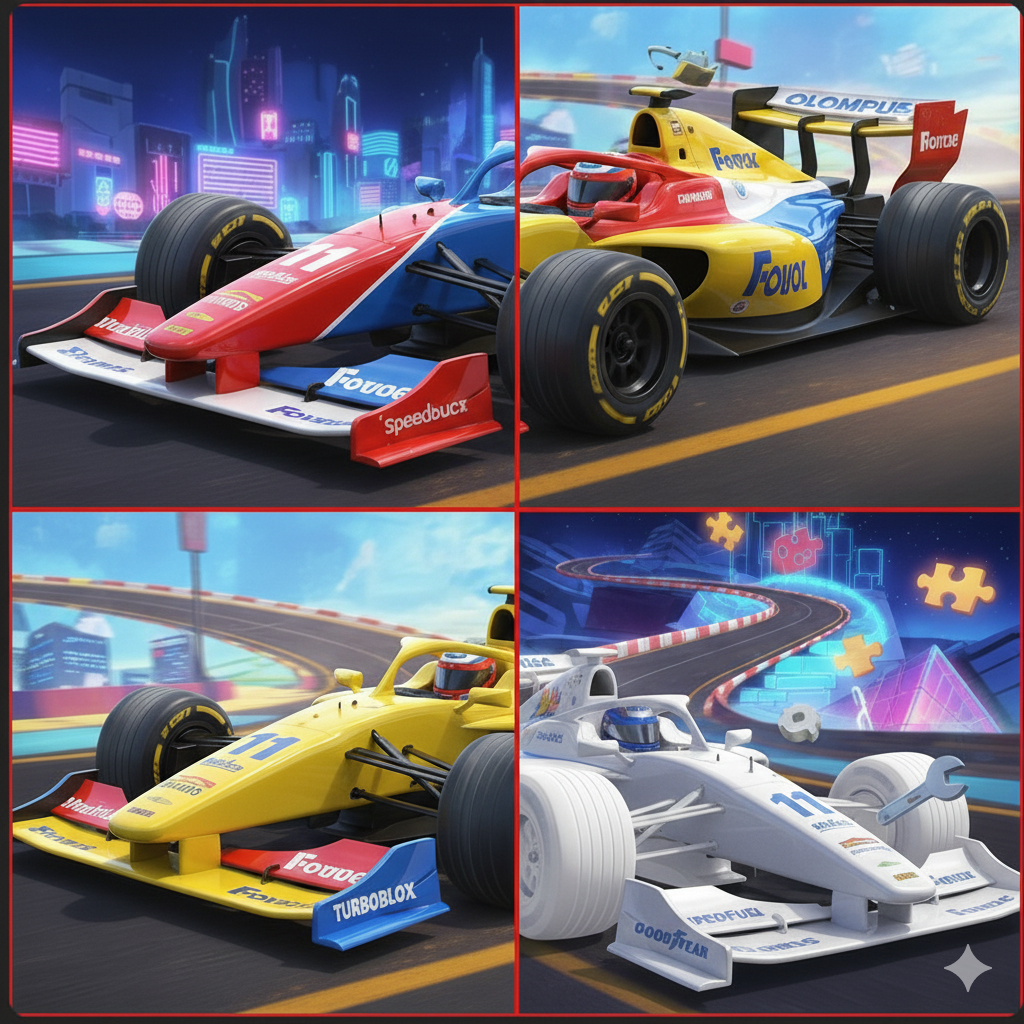
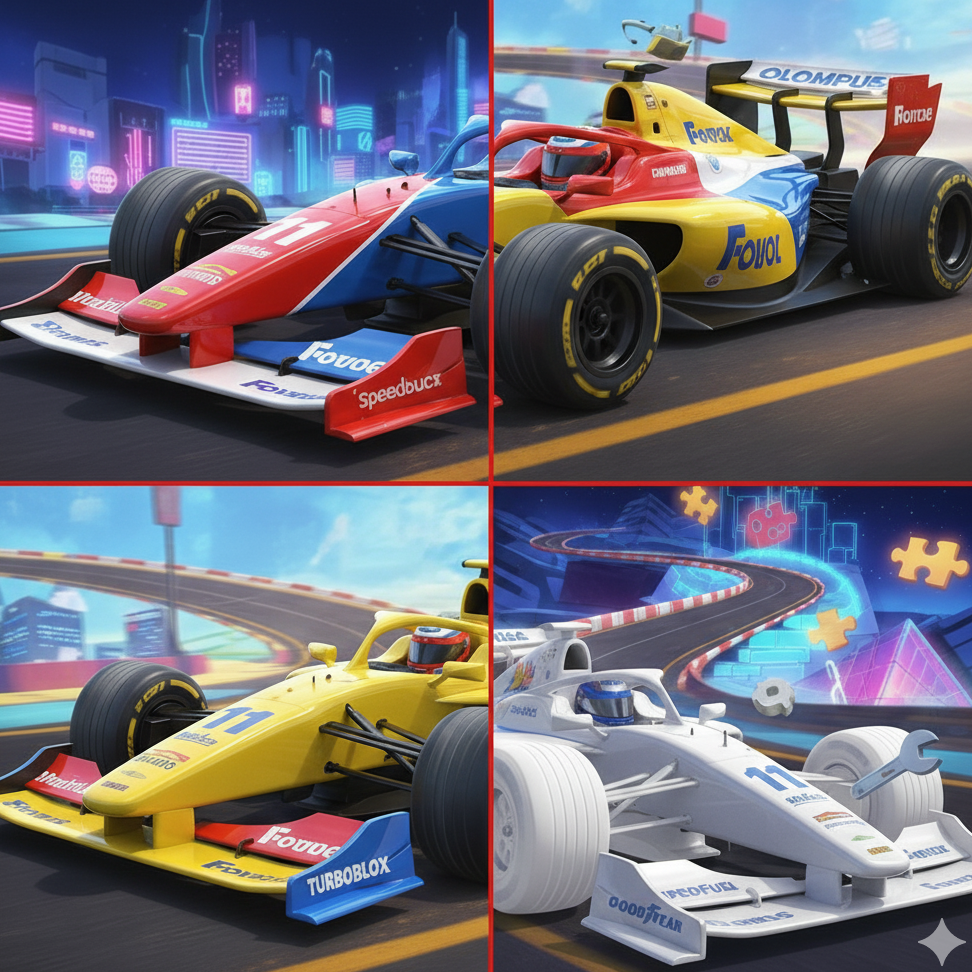
fotos de fondo

diff --git a/TP3/css/blocka-style.css b/TP3/css/blocka-style.css
@@ -19,14 +19,13 @@ body{
     display: flex;
     background-color: #3232325d;
     justify-content: center;
-    align-items: center;
-    padding: 20px;
+    align-items: end;
+    background:  linear-gradient(rgba(0, 0, 0, 0.7), rgba(0, 0, 0, 0.7)), url(../img/portada_blocka.png);
+    background-size: cover;      /* ✅ hace que la imagen cubra todo el contenedor */
+    background-position: center; /* ✅ centra la imagen */
+    background-repeat: no-repeat;              
 }
 
-.blocka .img-blocka {
-  opacity: 0.2;
-  filter: blur(2px);
-}
 
 /* Barra lateral de opciones en el juego */
 .sidebar{
@@ -113,8 +112,7 @@ body{
     grid-template-rows: 44px 78px 60px 70px;
     width: 800px;
     height: 410px;
-    /* COMENTAR !!!!!!!!!!!!!!!!!!!!!! */
-    margin: 40px;
+    margin-bottom: 90px;
 }
 
 .help .instructions-title.ayudin{
@@ -145,8 +143,7 @@ body{
     grid-template-rows: 32px 130px 110px 160px 55px 30px 120px 50px 32px;
     width: 800px;
     height: 655px;
-    /* COMENTAR !!!!!!!!!!!!!!!!!!!!!! */
-    margin: 40px;
+    transform: scale(0.9);
 }
 
 /* Cuerpo de info de ambos flotantes */
@@ -187,6 +184,10 @@ body{
   display: flex;
   justify-content: center;
   align-content: center;
+  background:  linear-gradient(rgba(0, 0, 0, 0.5), rgba(0, 0, 0, 0.5)), url(../img/fondo.jpg);
+  background-size: cover;      /* ✅ hace que la imagen cubra todo el contenedor */
+  background-position: center; /* ✅ centra la imagen */
+  background-repeat: no-repeat;              
 }
 .menu-inicial {
   display: flex;
@@ -570,7 +571,7 @@ B
 
 #canvas-ruleta {
   display: none;
-  margin: 0 auto;
+  margin-bottom: 65px;
   background: radial-gradient(circle at center, #111, #000);
   border-radius: 20px;
   box-shadow: 0 0 25px rgba(0,255,255,0.3), inset 0 0 15px rgba(0,255,255,0.2);

diff --git a/TP3/js/blocka.js b/TP3/js/blocka.js
@@ -19,6 +19,7 @@ function initBlocka() {
   const icon_pausa = document.querySelector(".icon-pausa");
   const icon_play = document.querySelector(".icon-play");
   const penaltyMessage = document.getElementById("penalty-message");
+  const blocka_article = document.querySelector(".blocka");
 
   let gameMode = "countup";
   let randomMode = false;
@@ -197,6 +198,12 @@ function initBlocka() {
   // ===============================================================
   function selectionRoulette() {
     const modeSelectGame = document.getElementById("gameMode");
+    blocka_article.style.background = `
+      linear-gradient(rgba(0, 0, 0, 0.7), rgba(0, 0, 0, 0.7)),
+      url("../img/fondo.jpg") center / cover no-repeat
+    `;
+
+
     modeSelectGame.style.display = "none";
 
     const canvasRoulette = document.getElementById("canvas-ruleta");

diff --git a/TP3/blocka/index.html b/TP3/blocka/index.html
@@ -324,7 +324,6 @@
             <a class="breadcrumbs" href="">Home>Tendencias>Blocka</a>
         </article>
         <article class="blocka">
-            <img class="img-blocka" src="../img/portada_blocka.png" alt="peg-solitaire">
 
 
 

diff --git a/TP3/html/blocka.html b/TP3/html/blocka.html
@@ -157,7 +157,6 @@
 
 
 <div id="gameMode" class="inicio">
-    <img src="" alt="">
     <div class="menu-inicial">
         <!-- modo de juego -->
         <div class="game-mode">
